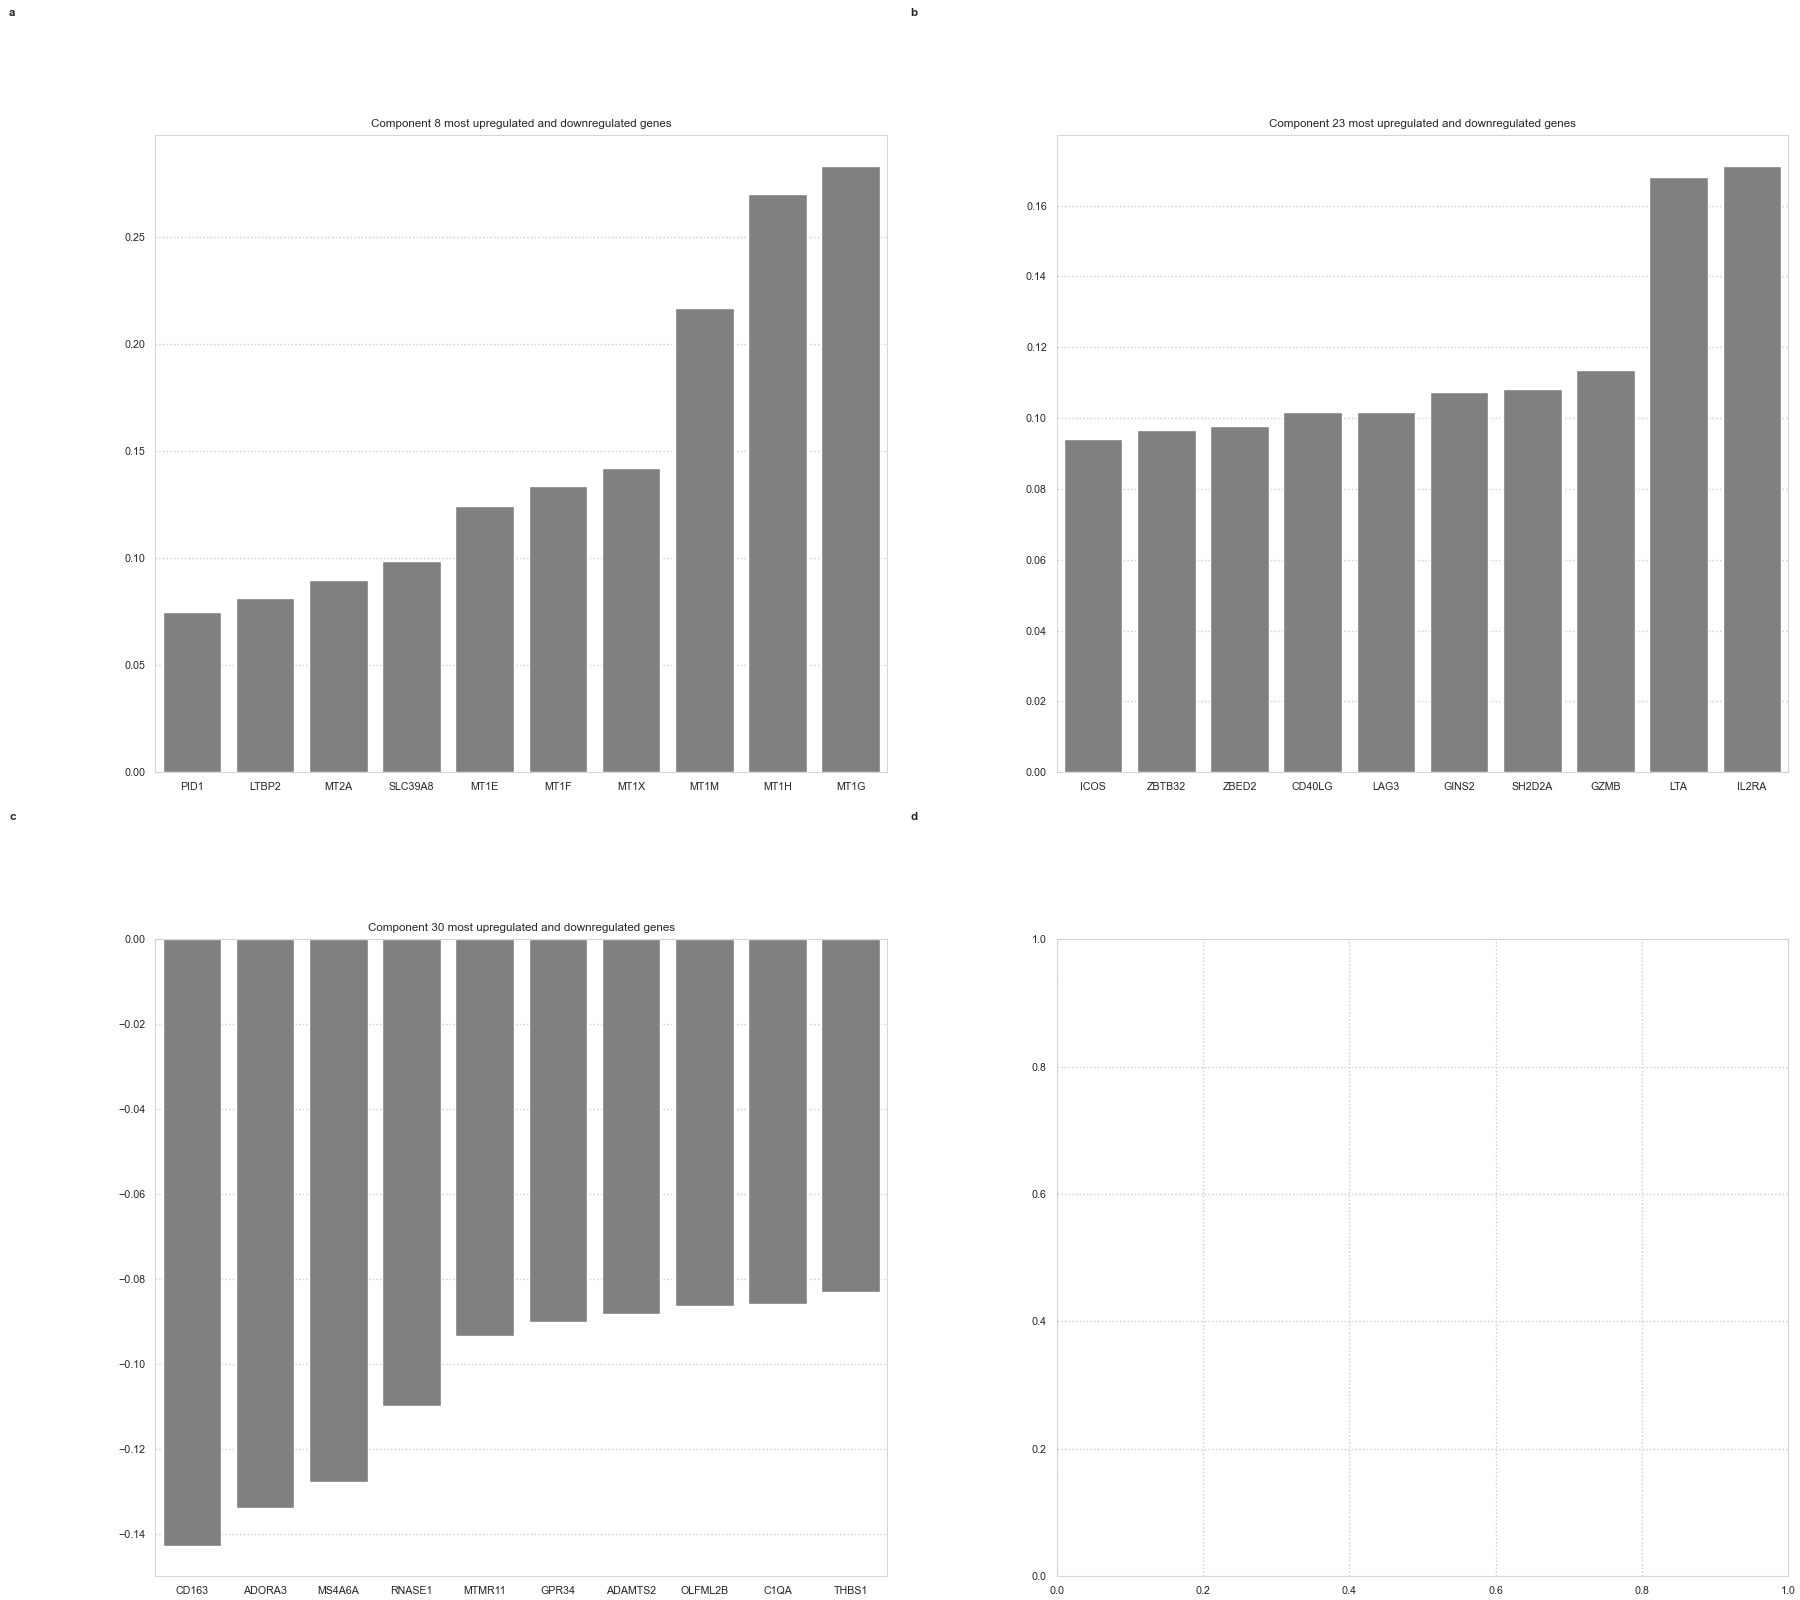
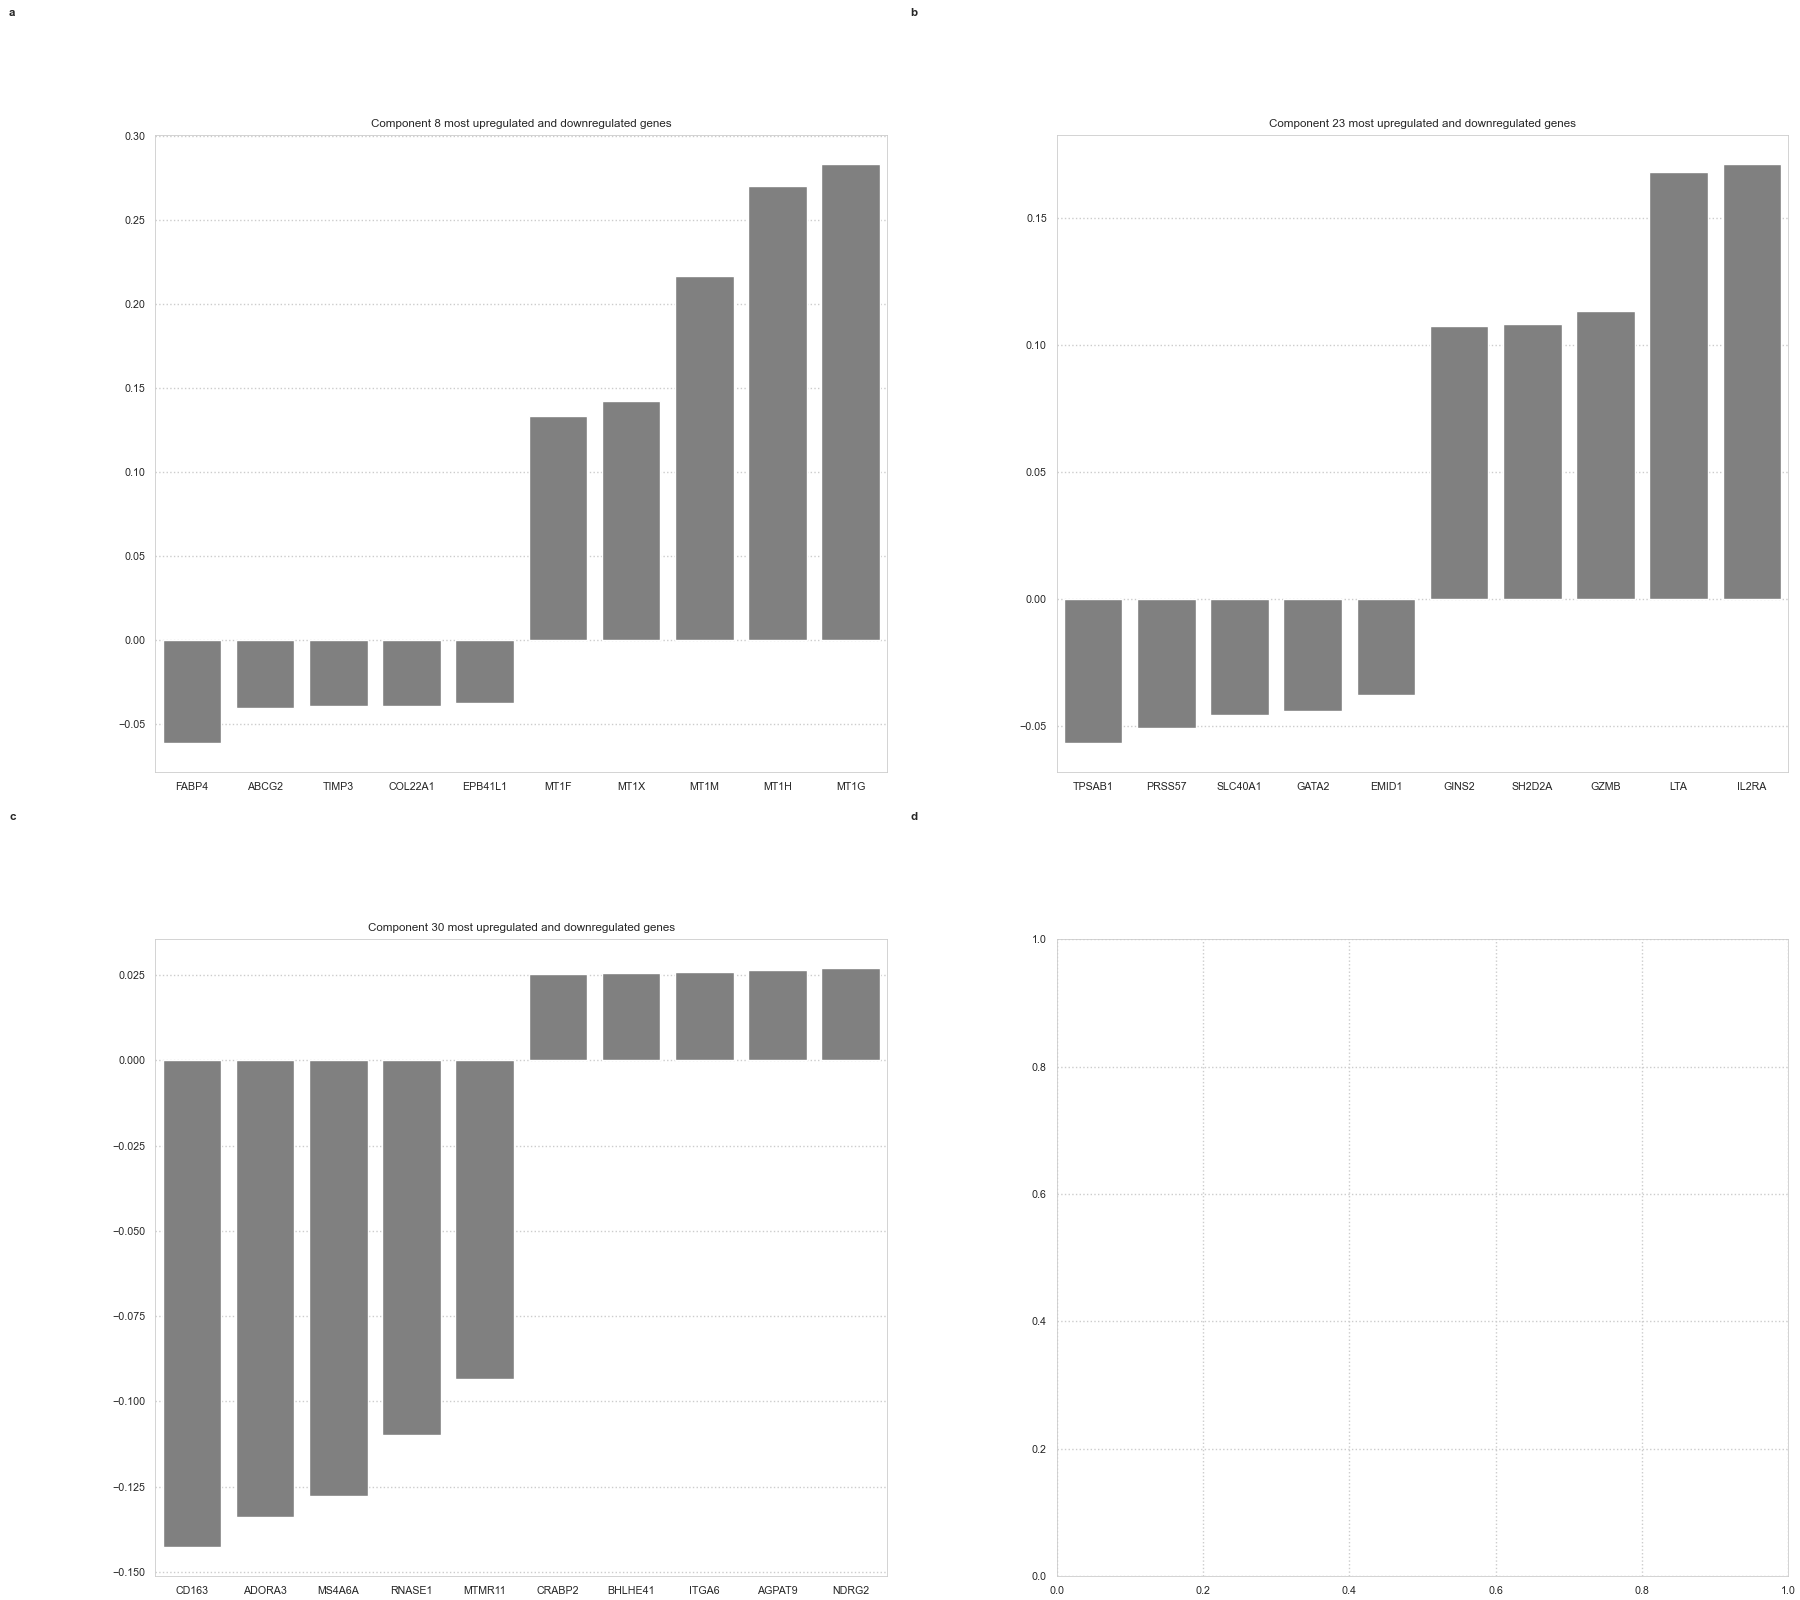
Fix gene figure to include both up and downregulated genes

diff --git a/sccp/figures/figureN3.py b/sccp/figures/figureN3.py
@@ -51,9 +51,14 @@ def makeFigure():
     k = 0
     for i in large_comps:
         ax[k].set_title(f"Component {i+1} most upregulated and downregulated genes")
-        t_ten_genes = np.argpartition(np.absolute(gene_factors_T[i]), -10)[-10:]
-        gene_names = dataDF.variable_labels[t_ten_genes]
-        gene_values = gene_factors_T[i][t_ten_genes]
+        t_five_genes = np.argpartition(gene_factors_T[i], -5)[-5:]
+        b_five_genes = np.argpartition(gene_factors_T[i], 5)[:5]
+        gene_names = np.concatenate(
+            (dataDF.variable_labels[t_five_genes], dataDF.variable_labels[b_five_genes])
+        )
+        gene_values = np.concatenate(
+            (gene_factors_T[i][t_five_genes], gene_factors_T[i][b_five_genes])
+        )
         gene_values, gene_names = np.transpose(sorted(zip(gene_values, gene_names)))
         sns.barplot(x=gene_names, y=gene_values.astype(float), ax=ax[k], color="gray")
         k += 1
